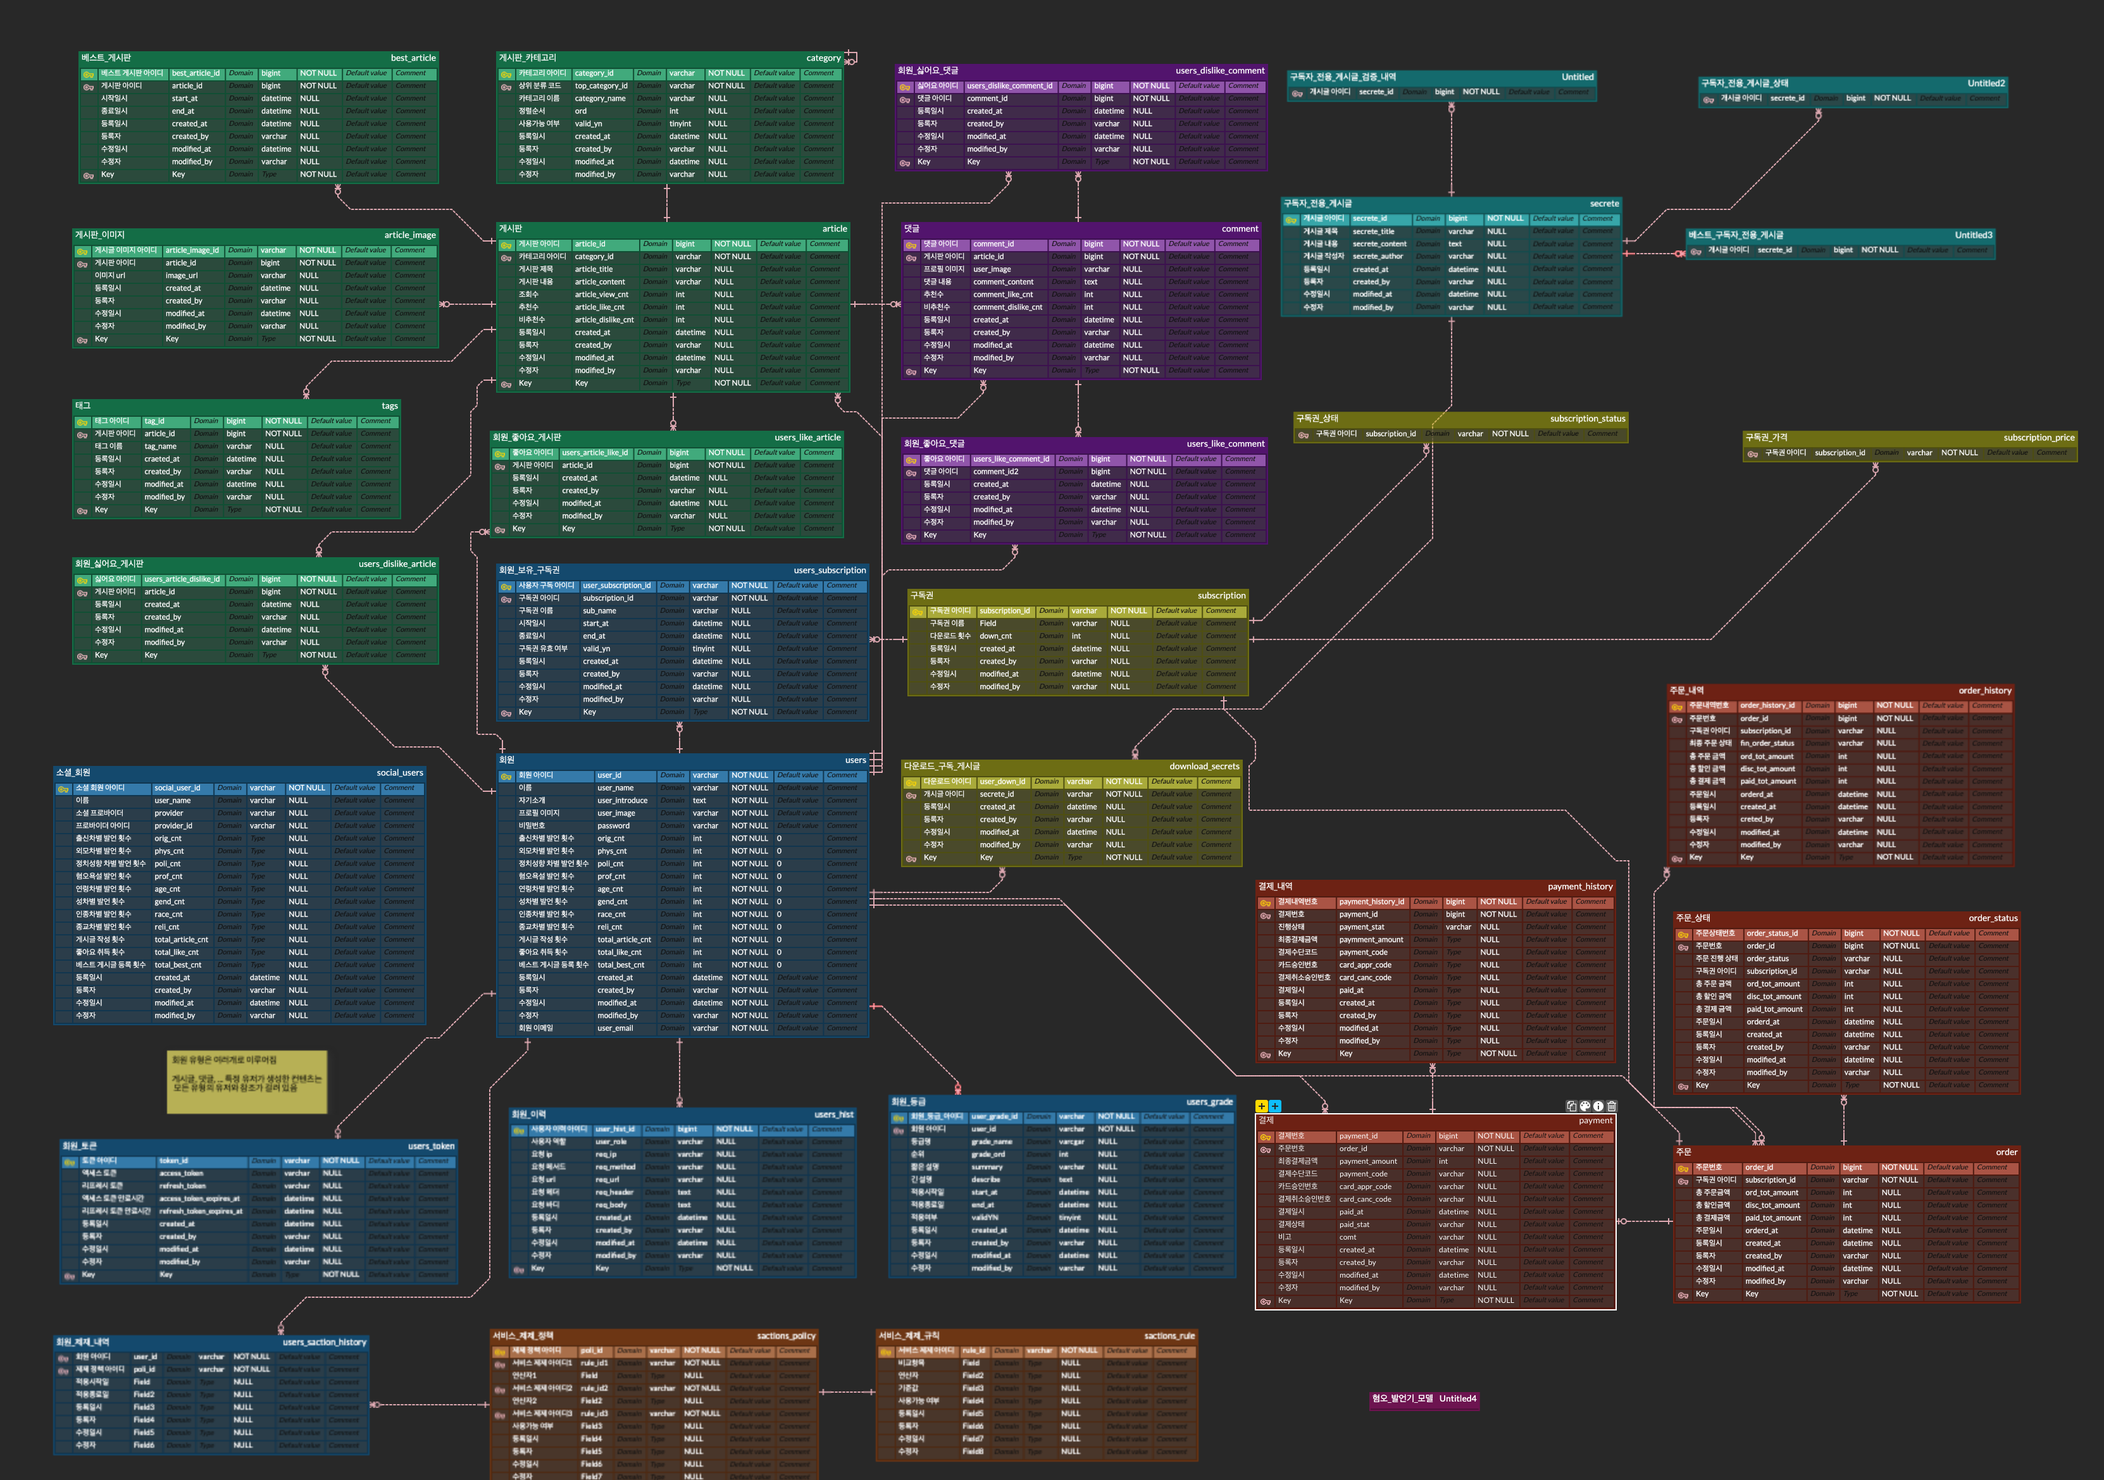
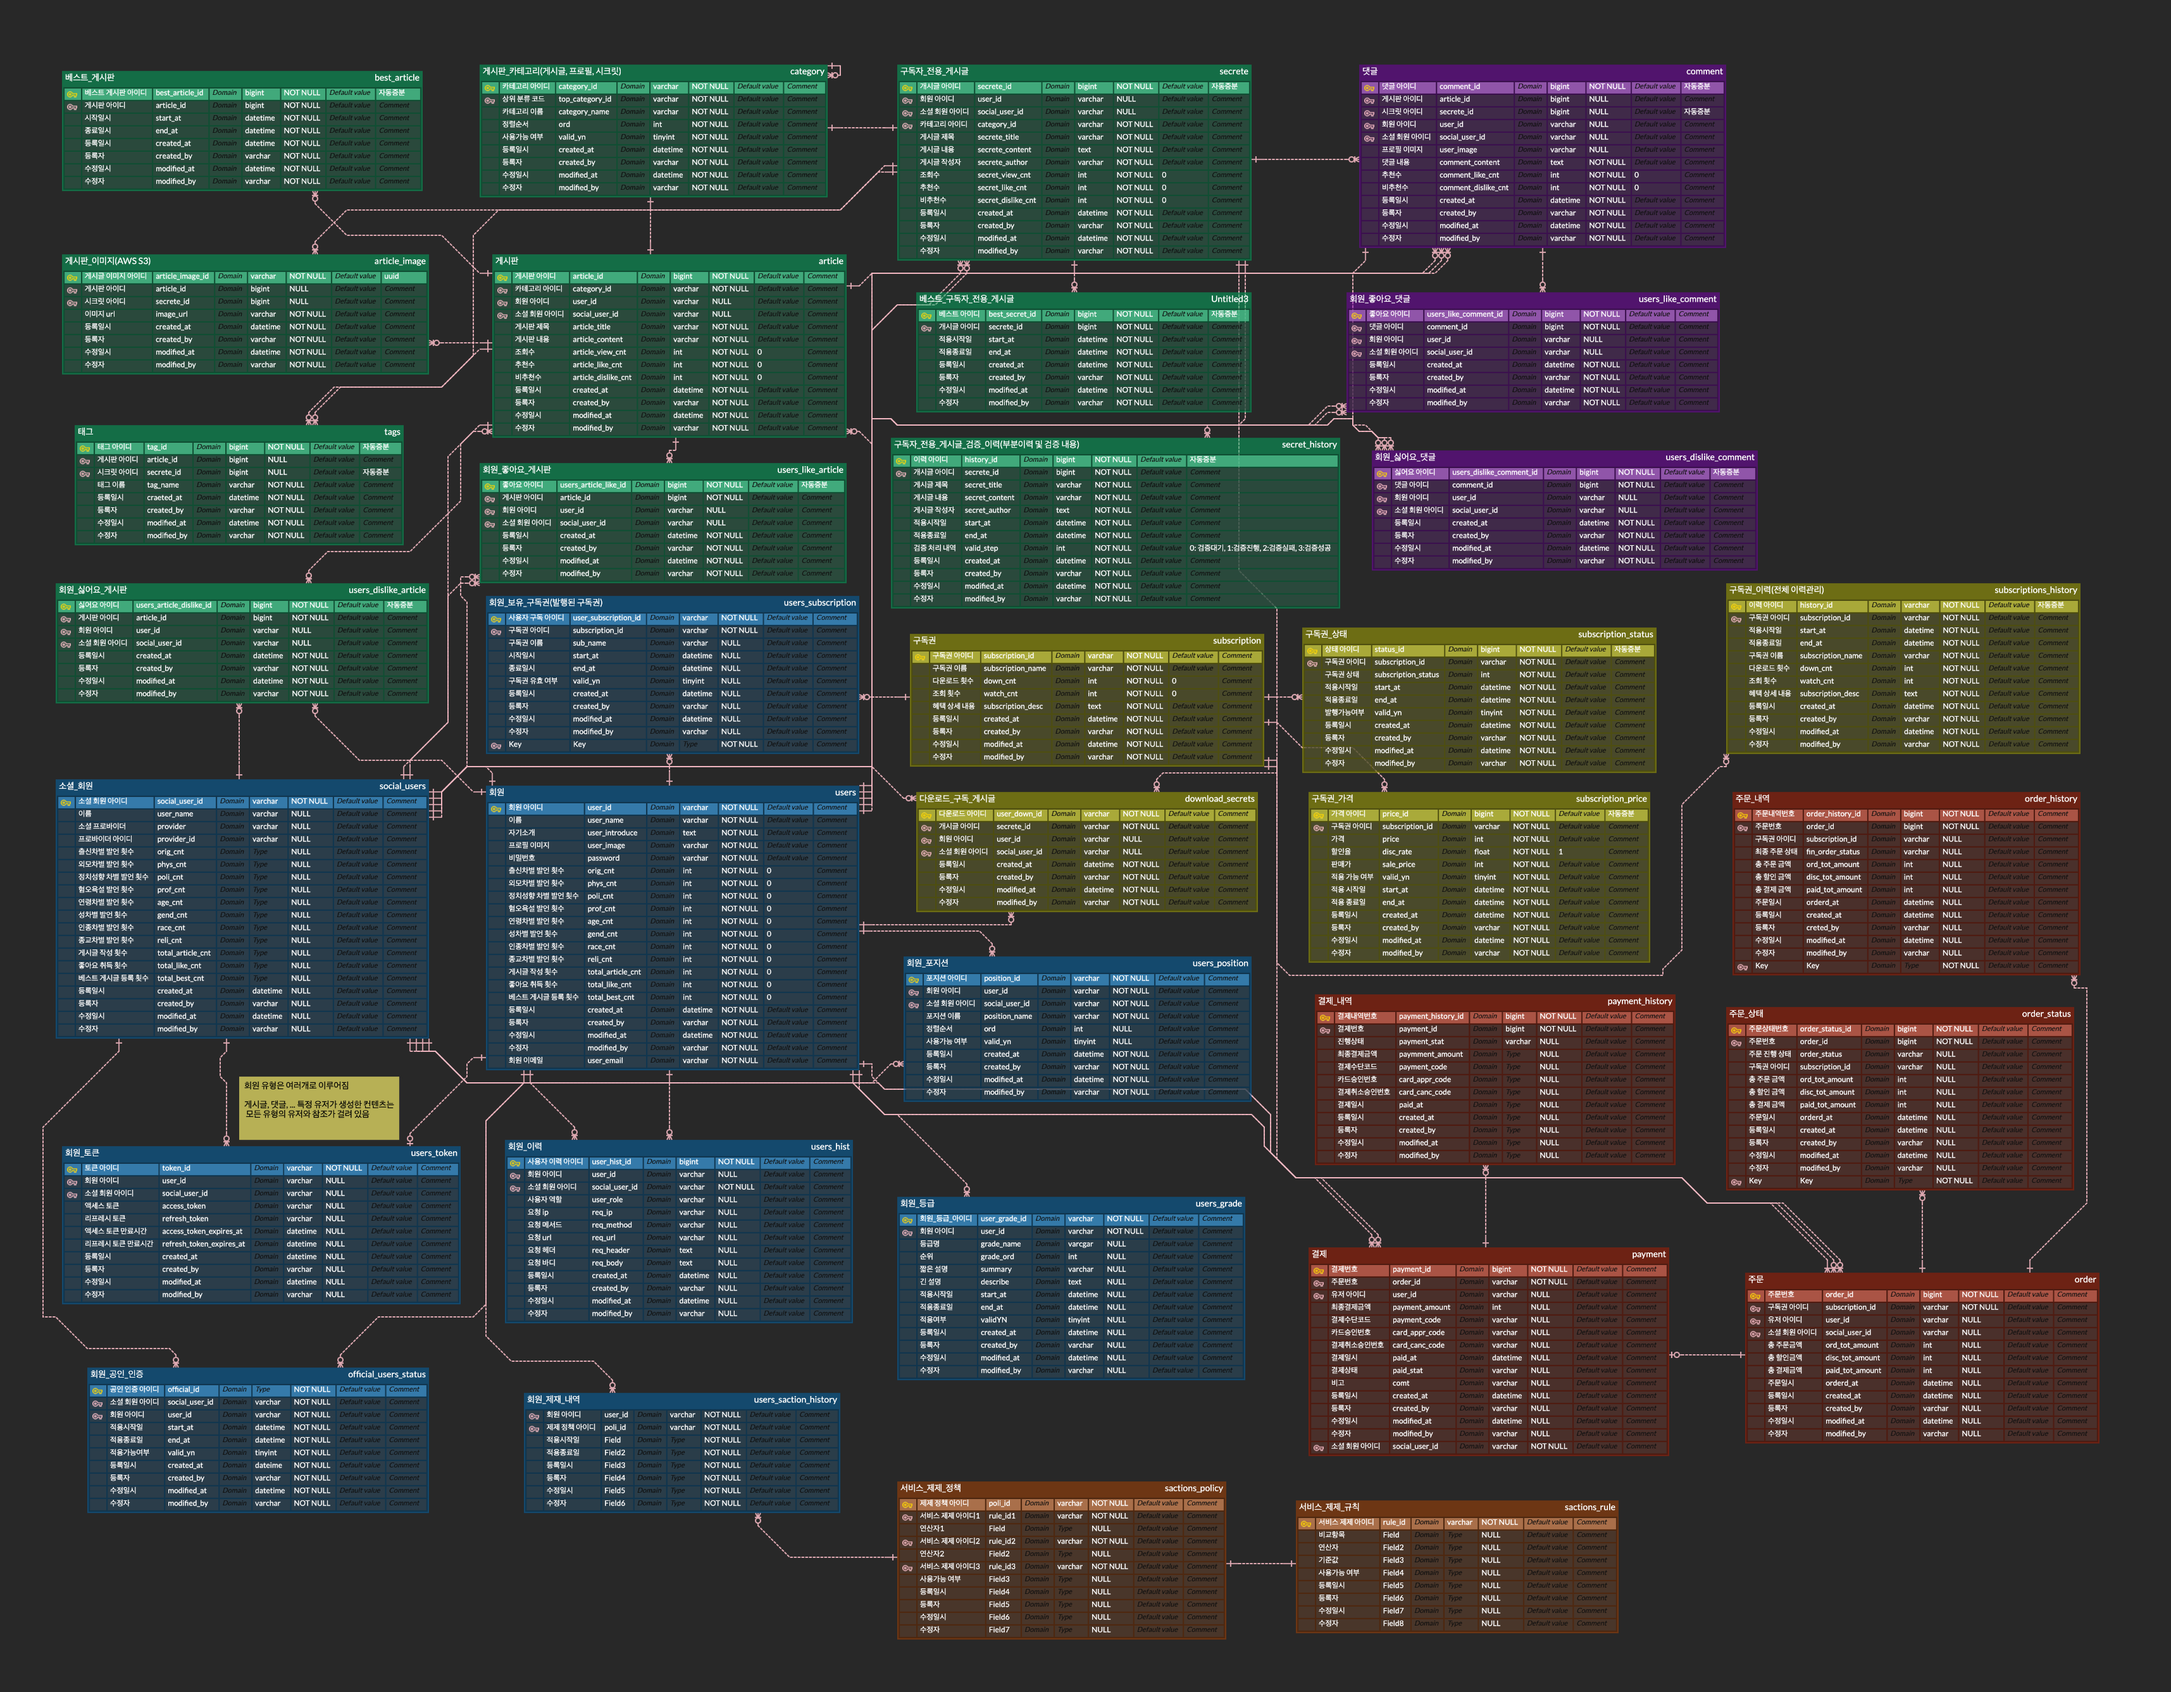
[docs] 문서 내용 추가

diff --git a/sodam-backend/src/main/kotlin/com/backend/sodam/domain/users/entity/UsersEntity.kt b/sodam-backend/src/main/kotlin/com/backend/sodam/domain/users/entity/UsersEntity.kt
@@ -23,6 +23,7 @@ class UsersEntity(
     val userId: String,
 
     // 양방향 매핑
+
     @OneToMany(mappedBy = "user", cascade = [CascadeType.ALL], orphanRemoval = true)
     var subscriptions: MutableList<UsersSubscriptionsEntity> = mutableListOf(),
 

diff --git a/README.md b/README.md
@@ -2,12 +2,24 @@
 
 
 > - 우리들의 성장 이야기 Sodam 🍃
-> - 현재 개발 전략 : TDD 활용하지 않고 엔드포인트 기능 구현에 초점을 맞춤
->   - 1. 제한적인 기간 : 해당 프로젝트는 4월 초에 마무리할 예정이므로 기간이 제한적임 
->   - 2. 개인의 역량 : 프론트엔드 & 백엔드 모두 혼자서 구현해야함
->   - 3. 변경되는 애플리케이션 비즈니스 및 정책 : 개발 과정에서 비즈니스가 변경되는 경우가 있음
+> - 현재 개발 전략 : <strong>TDD 활용하지 않고 엔드포인트 기능 구현에 초점을 맞춤</strong>
+>   - 제한적인 기간
+>   - 개인의 역량 : 프론트엔드 & 백엔드 모두 혼자서 구현해야함
+>   - 변경되는 애플리케이션 비즈니스 및 정책 : 개발 과정에서 비즈니스가 변경되는 경우가 있음
 >  
-> - 배포 및 운영 할 때 운영하면서 단위 테스트 및 통합 테스트 작성함으로써 코드의 신뢰성을 확보할 예정
+> - 배포 및 운영 할 때 운영하면서 단위 테스트 및 통합 테스트 작성하며 리팩토링함으로써 깔끔한 코드 베이스 유지와 신뢰성을 확보할 예정
+
+## 🏛 프로젝트 설계 
+
+> - ### 1. ERD 설계 구조(현재 2차 ERD 설계 적용)
+>   ![ERD 구조](./docs//design/[Sodam🍃]2차_ERD_설계작업.png)
+> - ### 2. 백엔드 아키텍처
+>   (추후에 업데이트)
+> - ### 3. 인프라 아키텍처
+>   (추후에 업데이트)
+> - ### 4. 프론트엔드 아키텍처
+>   (추후에 업데이트)
+
 
 
 <br>
